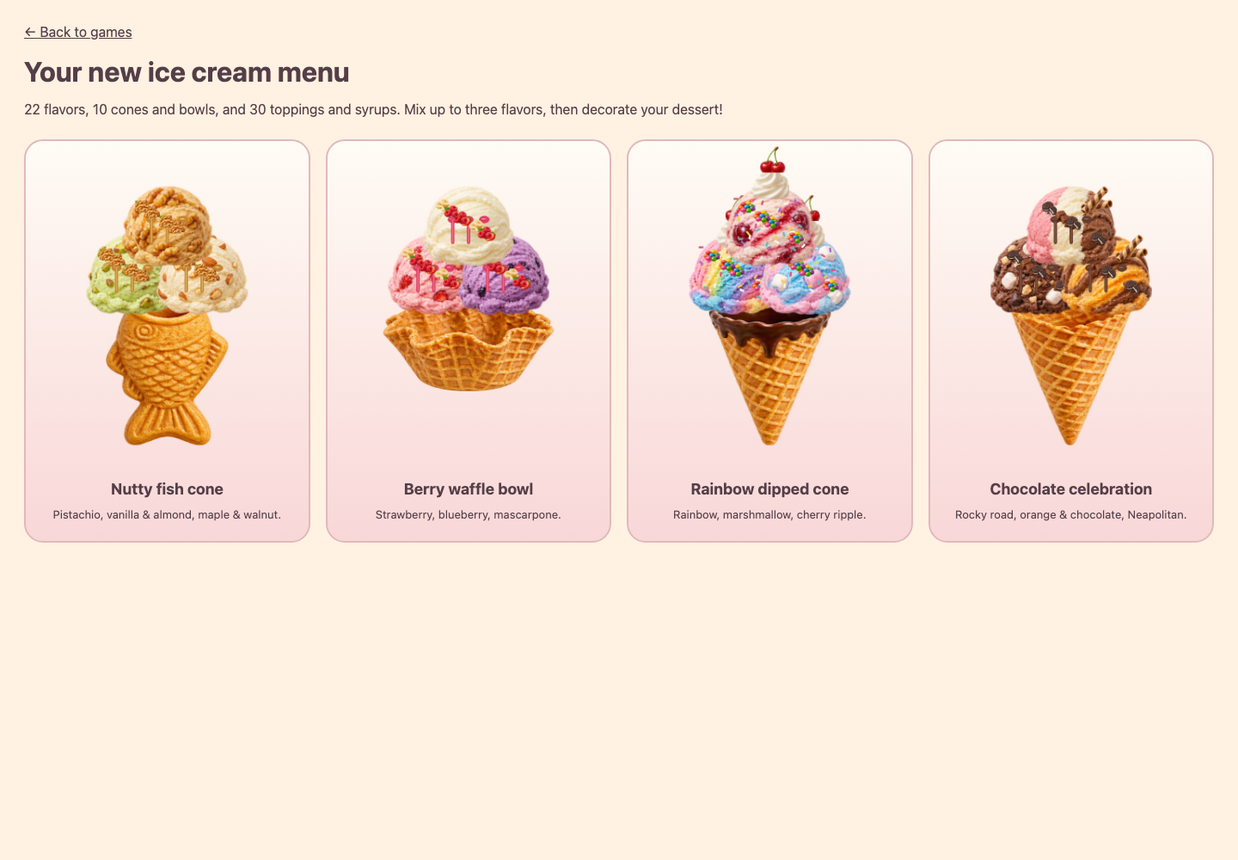
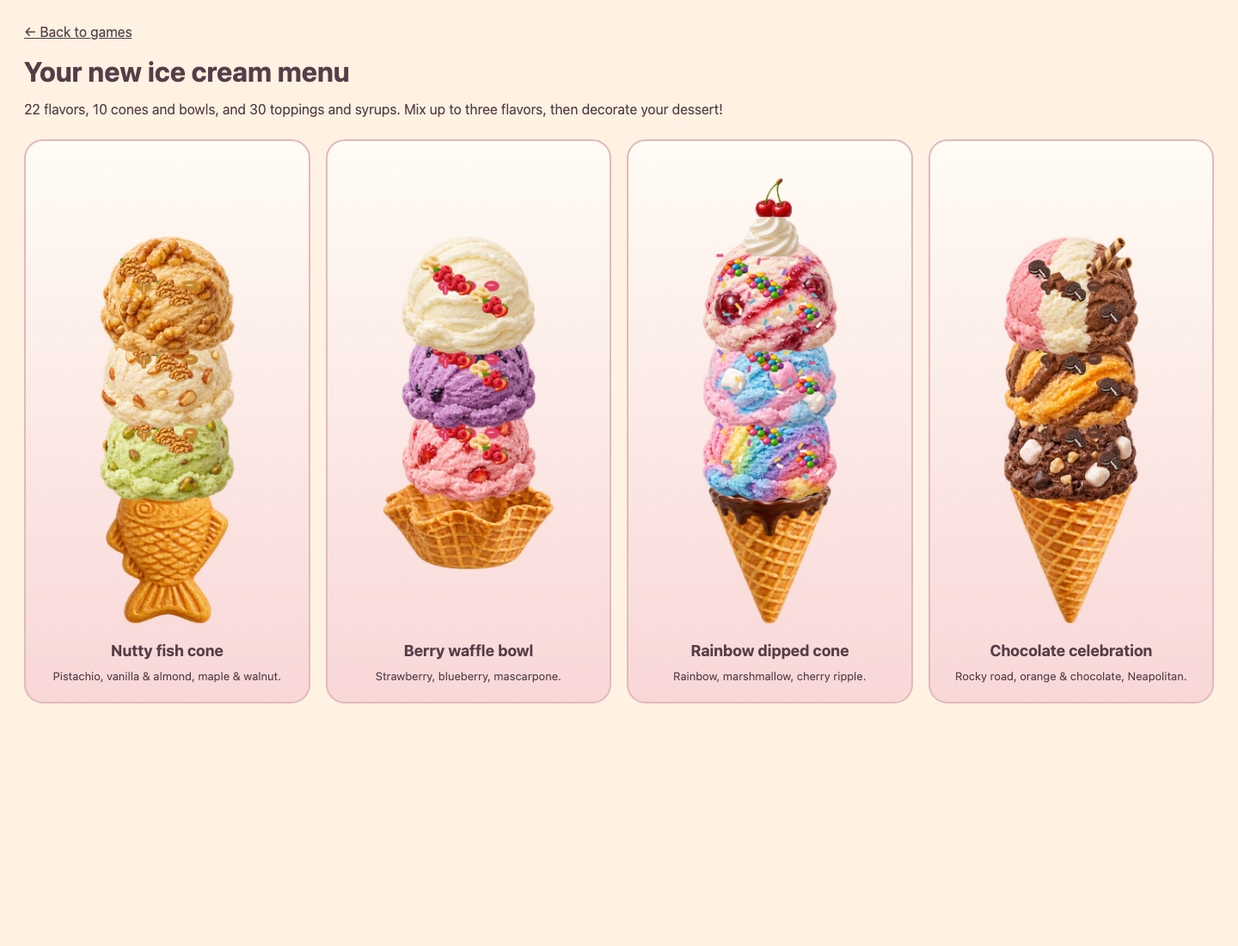
Allow empty flavor selections and stack full-size scoops vertically

diff --git a/src/ice-cream.js b/src/ice-cream.js
@@ -11,9 +11,10 @@ const hasSyrup=r=>r.toppings.some(isIceSyrup);
 const syrupColor=p=>(ICE_SYRUPS[syrupKind(p)]||ICE_SYRUPS.sauce).color;
 const syrupShine=p=>(ICE_SYRUPS[syrupKind(p)]||ICE_SYRUPS.sauce).shine;
 export function createIceRecipe(){return {drink:'icecream',funny:false,cone:'waffle',flavor:'vanilla',flavors:['vanilla'],toppings:[],sauceDrops:[]};}
-export function iceRecipeFlavors(recipe){const values=Array.isArray(recipe.flavors)?recipe.flavors:[recipe.flavor];const valid=[...new Set(values.filter(id=>Object.hasOwn(ICE_FLAVORS,id)))].slice(0,3);return valid.length?valid:[Object.hasOwn(ICE_FLAVORS,recipe.flavor)?recipe.flavor:'vanilla'];}
-export function chooseIceFlavor(recipe,id,replace=false){if(!Object.hasOwn(ICE_FLAVORS,id))return false;let flavors=iceRecipeFlavors(recipe);if(replace)flavors=[id];else if(flavors.includes(id)){if(flavors.length===1)return false;flavors=flavors.filter(value=>value!==id);}else{if(flavors.length>=3)return false;flavors.push(id);}recipe.flavors=flavors;recipe.flavor=flavors[0];return true;}
-export function iceScoopLayout(recipe){const ids=iceRecipeFlavors(recipe),positions=ids.length===1?[[0,0,1]]:ids.length===2?[[-36,-5,.72],[36,-5,.72]]:[[-36,0,.68],[36,0,.68],[0,-50,.68]];return ids.map((flavor,i)=>({flavor,x:positions[i][0],y:positions[i][1],scale:positions[i][2]}));}
+export function iceRecipeFlavors(recipe){if(Array.isArray(recipe.flavors))return [...new Set(recipe.flavors.filter(id=>Object.hasOwn(ICE_FLAVORS,id)))].slice(0,3);return [Object.hasOwn(ICE_FLAVORS,recipe.flavor)?recipe.flavor:'vanilla'];}
+export function chooseIceFlavor(recipe,id,replace=false){if(!Object.hasOwn(ICE_FLAVORS,id))return false;let flavors=iceRecipeFlavors(recipe);if(replace)flavors=[id];else if(flavors.includes(id))flavors=flavors.filter(value=>value!==id);else{if(flavors.length>=3)return false;flavors.push(id);}recipe.flavors=flavors;recipe.flavor=flavors[0]??null;if(!flavors.length)for(const key of ['sauceDrops','sauceFalling','saucePuddles'])recipe[key]=[];return true;}
+export function iceScoopLayout(recipe){return iceRecipeFlavors(recipe).map((flavor,i)=>({flavor,x:0,y:-76*i,scale:1}));}
+export function iceDessertBites(recipe){const count=iceRecipeFlavors(recipe).length;if(count<=1)return recipe.cone==='cup'?ICE_CUP_BITES:ICE_BITES;const offset=(count-1)*76;return [{x:24,y:-65-offset,r:88},{x:-24,y:-40-offset*.45,r:90},{x:12,y:recipe.cone==='cup'?-25:30,r:85},{x:0,y:recipe.cone==='cup'?-12:113,r:80}];}
 function drawReferenceIceToppings(c,recipe){
  const scattered={chips:6,pinkSprinkles:10,chocolateSprinkles:10,pearlSprinkles:10,mms:4,truFru:3,banana:3,strawberries:2,chocolatePieces:3,oreo:3,brownie:3,goldfish:4,cookieCrumbs:9,almonds:4,walnuts:4,raspberries:3,orangeSlice:1};
  for(const [id,count]of Object.entries(scattered)){if(!recipe.toppings.includes(id))continue;for(let i=0;i<count;i++){const x=count===1?10:-44+(i*37+id.length*3)%88,y=-65+(i*23+id.length*2)%55,size=count>6?15:count===1?42:25;if(!drawIceIngredient(c,'toppings',id,x-size/2,y-size/2,size,size)){c.fillStyle=['#f48bad','#784537','#f6dd8b','#8ec7df'][i%4];c.beginPath();c.ellipse(x,y,size*.3,size*.22,i,0,Math.PI*2);c.fill();}}}
@@ -152,11 +153,12 @@ export function drawIceDessert(ctx,recipe,x,y,scale=1,bites=0){
   ctx.save();ctx.translate(x,y);ctx.scale(scale,scale);
   // The reusable cup is drawn outside the edible layer's bite mask.
   if(recipe.cone==='cup'){drawIceCup(ctx);if(bites>=4){ctx.restore();return;}}
+  const topOffset=Math.max(0,iceRecipeFlavors(recipe).length-1)*76;
   // Intersect the dessert with the outside of each bite; the remaining portion
   // keeps its original size and position, with visible scalloped bite edges.
-  if(bites>0){ctx.beginPath();ctx.rect(-200,-82,400,282);ctx.clip();}
-  for(const bite of (recipe.cone==='cup'?ICE_CUP_BITES:ICE_BITES).slice(0,bites)){
-    ctx.beginPath();ctx.rect(-200,-200,400,400);
+  if(bites>0){ctx.beginPath();ctx.rect(-200,-200-topOffset,400,400+topOffset);ctx.clip();}
+  for(const bite of iceDessertBites(recipe).slice(0,bites)){
+    ctx.beginPath();ctx.rect(-200,-200-topOffset,400,400+topOffset);
     ctx.moveTo(bite.x+bite.r,bite.y);ctx.arc(bite.x,bite.y,bite.r,0,Math.PI*2);
     ctx.clip('evenodd');
   }
@@ -355,7 +357,7 @@ export function drawIceScene(ctx,recipe,width,height,clipTime=null,reducedMotion
   ctx.fillStyle='#cbe4db';ctx.fillRect(445,124,8,330);
   ctx.fillStyle='#c79575';ctx.fillRect(0,470,900,150);ctx.fillStyle='#eec8a2';ctx.fillRect(0,456,900,24);}
   ctx.textAlign='center';ctx.fillStyle='#533e4a';ctx.font='bold 28px sans-serif';
-  ctx.fillText(clipTime===null?'THE LITTLE DRAGON ICE CREAM PARLOR':'A treat for your dragon!',450,111);
+  ctx.fillText(clipTime===null?'THE LITTLE DRAGON ICE CREAM PARLOR':'A treat for your dragon!',450,!isMilkshake(recipe)&&iceRecipeFlavors(recipe).length===3?74:111);
   if(isMilkshake(recipe)){
     const v=milkshakeBlendView(recipe);
     if(clipTime!==null)drawMilkshakeDrink(ctx,recipe,clipTime,drawIceDragon,reducedMotion);
@@ -364,14 +366,15 @@ export function drawIceScene(ctx,recipe,width,height,clipTime=null,reducedMotion
     ctx.restore();return;
   }
   if(clipTime===null){
-    iceOval(ctx,450,493,145,20,'#a67c6244');
-    ctx.save();ctx.translate(450,307);ctx.scale(1.15,1.15);drawChocolateSpill(ctx,recipe);ctx.restore();
-    drawIceDessert(ctx,recipe,450,307,1.15);
-    ctx.font='20px sans-serif';ctx.fillStyle='#fff6e8';ctx.fillText(iceRecipeFlavors(recipe).map(id=>ICE_FLAVORS[id].name).join(' + ')+' · '+ICE_CONES[recipe.cone],450,566,820);
+    const flavors=iceRecipeFlavors(recipe),dessertY=307+Math.max(0,flavors.length-1)*54;
+    iceOval(ctx,450,dessertY+186,145,20,'#a67c6244');
+    ctx.save();ctx.translate(450,dessertY);ctx.scale(1.15,1.15);drawChocolateSpill(ctx,recipe);ctx.restore();
+    drawIceDessert(ctx,recipe,450,dessertY,1.15);
+    ctx.font='20px sans-serif';ctx.fillStyle='#fff6e8';ctx.fillText((flavors.length?flavors.map(id=>ICE_FLAVORS[id].name).join(' + '):'Empty cone')+' · '+ICE_CONES[recipe.cone],450,flavors.length===3?610:566,820);
   }else{
     const t=clipTime,cleanup=iceCleanup(recipe,t);
     const arrive=iceClamp(t/1.4,0,1),bites=iceBiteCount(t);
-    const biteTargets=recipe.cone==='cup'?ICE_CUP_BITES:ICE_BITES;
+    const biteTargets=iceDessertBites(recipe),dessertY=314+Math.max(0,iceRecipeFlavors(recipe).length-1)*53;
     const biteIndex=Math.min(3,Math.max(0,Math.floor((t-1.5)/.95)));
     const phase=iceClamp((t-1.5-biteIndex*.95)/.95,0,1),target=biteTargets[biteIndex];
     const lunge=t>=1.5&&t<5.35?(reducedMotion ? .65 :Math.sin(phase*Math.PI)):0;
@@ -379,7 +382,7 @@ export function drawIceScene(ctx,recipe,width,height,clipTime=null,reducedMotion
     ctx.save();ctx.translate(450,307);ctx.scale(1.15,1.15);drawChocolateSpill(ctx,{...recipe,saucePuddles:cleanup.puddles},false);ctx.restore();
     const lickX=450+cleanup.x*1.15;
     const dragonX=cleanup.licking?lickX+54:900-arrive*330;
-    drawIceDragon(ctx,dragonX,277,reducedMotion?0:t,cleanup.licking?.45:mouth,cleanup.licking?0:(420+target.x-516)*lunge,cleanup.licking?110:(314+target.y-333)*lunge);
+    drawIceDragon(ctx,dragonX,277,reducedMotion?0:t,cleanup.licking?.45:mouth,cleanup.licking?0:(420+target.x-516)*lunge,cleanup.licking?110:(dessertY+target.y-333)*lunge);
     if(cleanup.licking){
       const reach=reducedMotion?1:.65+.35*Math.sin((t-5.5)*Math.PI*8)**2;
       ctx.strokeStyle='#eb9baf';ctx.lineWidth=13;ctx.lineCap='round';ctx.beginPath();ctx.moveTo(lickX,450);
@@ -388,11 +391,11 @@ export function drawIceScene(ctx,recipe,width,height,clipTime=null,reducedMotion
     }
     if(bites<4||recipe.cone==='cup'){
       const setDown=recipe.cone==='cup'&&bites===4?79*iceClamp((t-4.95)/.55,0,1):0;
-      drawIceDessert(ctx,recipe,420,314+setDown,1,bites);
+      drawIceDessert(ctx,recipe,420,dessertY+setDown,1,bites);
     }
     if(!reducedMotion&&bites>0&&t<5.5){
       const bite=biteTargets[bites-1],elapsed=t-(2.1+(bites-1)*.95);
-      if(elapsed<.35)for(let i=0;i<5;i++)iceOval(ctx,420+bite.x+(i-2)*9,314+bite.y+elapsed*95+i*4,3,3,ICE_FLAVORS[recipe.flavor].color);
+      if(elapsed<.35)for(let i=0;i<5;i++)iceOval(ctx,420+bite.x+(i-2)*9,dessertY+bite.y+elapsed*95+i*4,3,3,ICE_FLAVORS[recipe.flavor]?.color||'#dfba80');
     }
     if(t>=cleanup.thanks){
       ctx.fillStyle='#fff8e8';ctx.beginPath();ctx.roundRect(200,167,280,95,22);ctx.fill();
@@ -483,7 +486,7 @@ export function createIceCream({canvas,onHud,onFinish,controls=document.querySel
           activeTopping=id;renderControls();return;
         }
         if(step===2)activeTopping=id;
-        if(step===0){recipe.drink='icecream';delete recipe.blend;recipe.cone=id;}else if(step===1){if(!chooseIceFlavor(recipe,id,!flavorTouched)){heading.textContent=iceRecipeFlavors(recipe).length===3?'Choose up to 3 flavors — remove one to try another.':'Keep at least one flavor selected.';return;}flavorTouched=true;resetMilkshakeBlend(recipe);}
+        if(step===0){recipe.drink='icecream';delete recipe.blend;recipe.cone=id;}else if(step===1){if(!chooseIceFlavor(recipe,id,!flavorTouched&&!iceRecipeFlavors(recipe).includes(id))){heading.textContent='Choose up to 3 flavors — remove one to try another.';return;}flavorTouched=true;resetMilkshakeBlend(recipe);}
         else if(isMilkshake(recipe)){if(!chooseMilkshakeTopping(recipe,id)){heading.textContent='Choose up to 3 toppings — remove one to try another.';return;}}
         else recipe.toppings=recipe.toppings.includes(id)?recipe.toppings.filter(item=>item!==id):[...recipe.toppings,id];
         if(!isMilkshake(recipe)&&step===2&&isIceSyrup(id)){
@@ -496,13 +499,13 @@ export function createIceCream({canvas,onHud,onFinish,controls=document.querySel
       choices.append(button);
     }
     if(step===0){const button=document.createElement('button');button.type='button';button.className='button outline milkshake-choice';button.setAttribute?.('data-milkshake-choice','');button.setAttribute?.('aria-pressed',String(shake));button.disabled=locked;const picture=document.createElement('canvas'),caption=document.createElement('span');picture.width=140;picture.height=110;picture.setAttribute?.('aria-hidden','true');caption.textContent='Make a milkshake';button.append(picture,caption);ingredientPreviews.push({picture,kind:'drink',id:'milkshake',ready:null});button.onclick=()=>{if(!active||paused||clip!==null||isMixing())return;selectMilkshake(recipe);activeTopping=null;renderControls();};choices.append(button);}
-    back.disabled=locked||step===0;next.disabled=locked;
+    back.disabled=locked||step===0;next.disabled=locked||(step>=1&&!iceRecipeFlavors(recipe).length);
     next.textContent=step===2?(shake?(blend.phase==='ready'?'Feed dragon':mixing?'Blending…':'Send to blender'):'Done — feed the dragon!'):'Next: '+steps[step+1]+' →';
     onHud({text:clip!==null?'Watch your dragon enjoy the treat!':steps[step]+' · '+recipe.toppings.length+' toppings · More ingredients in the Appearance shop'});
   }
   back.onclick=()=>{if(active&&!paused&&clip===null&&!isMixing()&&step>0){step--;renderControls();heading.focus({preventScroll:true});}};
   next.onclick=()=>{
-    if(!active||paused||clip!==null||isMixing())return;
+    if(!active||paused||clip!==null||isMixing()||(step>=1&&!iceRecipeFlavors(recipe).length))return;
     if(step<2)step++;else if(isMilkshake(recipe)){if(recipe.blend?.phase==='ready'){clip=0;spoken=false;audio.stop();}else{startMilkshakeBlend(recipe);activeTopping=null;canvas.scrollIntoView?.({block:'center',behavior:reduced?'auto':'smooth'});}}else{
       // Finish any airborne drops before the dragon begins its cleanup.
       for(const drop of recipe.sauceFalling||[]){

diff --git a/tests/ice-cream.test.js b/tests/ice-cream.test.js
@@ -38,7 +38,7 @@ test('ice cream buttons preserve choices, toggle toppings, pause the ending, fin
     assert.equal(next.disabled,true);engine.start();
     assert.equal(choices.children[4].disabled,true);choices.children[4].onclick();assert.equal(choices.children[4].attributes['aria-pressed'],'false');
     choices.children[2].onclick();assert.equal(choices.children[2].attributes['aria-pressed'],'true');
-    next.onclick();choices.children[3].onclick();next.onclick();
+    next.onclick();choices.children[0].onclick();assert.equal(next.disabled,true);assert.ok(choices.children.every(b=>b.attributes['aria-pressed']==='false'));choices.children[1].onclick();choices.children[2].onclick();choices.children[1].onclick();choices.children[2].onclick();assert.ok(choices.children.every(b=>b.attributes['aria-pressed']==='false'));assert.equal(next.disabled,true);choices.children[3].onclick();assert.equal(next.disabled,false);next.onclick();
     choices.children[0].onclick();choices.children[4].onclick();choices.children[0].onclick();
     assert.equal(choices.children[0].attributes['aria-pressed'],'false');assert.equal(choices.children[4].attributes['aria-pressed'],'true');
     choices.children[2].onclick(); // Bring out the chocolate bottle.
@@ -242,7 +242,7 @@ test('dragon bites leave the cup intact and the empty cup remains after eating',
 });
 
 test('reference flavors combine into one to three distinct scoops without silently adding a fourth',async()=>{
- const {chooseIceFlavor,iceRecipeFlavors,iceScoopLayout}=await import('../src/ice-cream.js');const r=createIceRecipe();assert.equal(chooseIceFlavor(r,'pistachio',true),true);assert.equal(chooseIceFlavor(r,'rockyroad'),true);assert.equal(chooseIceFlavor(r,'neapolitan'),true);assert.deepEqual(iceRecipeFlavors(r),['pistachio','rockyroad','neapolitan']);const before=JSON.stringify(r);assert.equal(chooseIceFlavor(r,'orange'),false);assert.equal(JSON.stringify(r),before);assert.equal(iceScoopLayout(r).length,3);assert.equal(new Set(iceScoopLayout(r).map(s=>s.x+','+s.y)).size,3);assert.equal(chooseIceFlavor(r,'rockyroad'),true);assert.equal(chooseIceFlavor(r,'neapolitan'),true);assert.equal(chooseIceFlavor(r,'pistachio'),false);assert.equal(r.flavor,'pistachio');assert.deepEqual(iceRecipeFlavors({flavor:'vanillaalmond'}),['vanillaalmond']);assert.equal(chooseIceFlavor(r,'unknown'),false);
+ const {chooseIceFlavor,iceRecipeFlavors,iceScoopLayout}=await import('../src/ice-cream.js');const r=createIceRecipe();assert.equal(chooseIceFlavor(r,'pistachio',true),true);assert.equal(chooseIceFlavor(r,'rockyroad'),true);assert.equal(chooseIceFlavor(r,'neapolitan'),true);assert.deepEqual(iceRecipeFlavors(r),['pistachio','rockyroad','neapolitan']);const before=JSON.stringify(r);assert.equal(chooseIceFlavor(r,'orange'),false);assert.equal(JSON.stringify(r),before);assert.equal(iceScoopLayout(r).length,3);assert.equal(new Set(iceScoopLayout(r).map(s=>s.x+','+s.y)).size,3);assert.equal(chooseIceFlavor(r,'rockyroad'),true);assert.equal(chooseIceFlavor(r,'neapolitan'),true);assert.equal(chooseIceFlavor(r,'pistachio'),true);assert.equal(r.flavor,null);assert.deepEqual(iceRecipeFlavors(r),[]);assert.equal(chooseIceFlavor(r,'orange'),true);assert.deepEqual(iceRecipeFlavors(r),['orange']);assert.deepEqual(iceRecipeFlavors({flavor:'vanillaalmond'}),['vanillaalmond']);assert.equal(chooseIceFlavor(r,'unknown'),false);
 });
 test('all five syrup colors pour, settle and participate in dragon cleanup',async()=>{
  const {ICE_SYRUPS}=await import('../src/ice-settings.js');assert.equal(Object.keys(ICE_SYRUPS).length,5);const r=createIceRecipe();r.toppings=Object.keys(ICE_SYRUPS);for(const id of r.toppings){pourIceChocolate(r,-20,-40,.5,id);pourIceChocolate(r,130,-20,.3,id);}for(let i=0;i<60;i++)tickIceChocolate(r,.1);assert.deepEqual(new Set(r.sauceDrops.map(p=>p.kind)),new Set(Object.keys(ICE_SYRUPS)));assert.deepEqual(new Set(r.saucePuddles.map(p=>p.kind)),new Set(Object.keys(ICE_SYRUPS)));assert.equal(iceCleanup(r,9).puddles.length,0);assert.equal(iceCleanup(r,6).licking,true);
@@ -251,5 +251,7 @@ test('every pictured ingredient has a valid static illustration used by the choo
  const {ICE_ART}=await import('../src/ice-art-bounds.js'),{drawIceIngredient}=await import('../src/ice-art.js'),{statSync}=await import('node:fs');assert.equal(Object.keys(ICE_FLAVORS).length,22);assert.equal(Object.keys(ICE_CONES).length,10);assert.equal(Object.keys(ICE_TOPPINGS).length,30);
  const old=globalThis.Image;t.after(()=>globalThis.Image=old);globalThis.Image=class{complete=true;set src(v){this.url=v;const kind=v.match(/ice-ingredients\/(.+)\.png/)[1];this.naturalWidth=ICE_ART[kind].width;this.naturalHeight=ICE_ART[kind].height;}get src(){return this.url;}};const draws=[],c=new Proxy({drawImage:(...a)=>draws.push(a)},{get:(o,k)=>o[k]||(()=>{}),set:(o,k,v)=>(o[k]=v,true)});
  for(const [kind,options]of [['flavors',ICE_FLAVORS],['cones',ICE_CONES],['toppings',ICE_TOPPINGS]]){const data=ICE_ART[kind];assert.deepEqual(data.ids,Object.keys(options));assert.equal(data.ids.length,data.bounds.length);assert.ok(statSync(new URL('../assets/ice-ingredients/'+kind+'.png',import.meta.url)).size>1000);for(const [i,id]of data.ids.entries()){const b=data.bounds[i];assert.ok(b.w>0&&b.h>0&&b.x>=0&&b.y>=0&&b.x+b.w<=data.width&&b.y+b.h<=data.height);assert.equal(drawIceIngredient(c,kind,id,0,0,120,100),true);const call=draws.at(-1);assert.ok(call[7]<=120+1e-8&&call[8]<=100+1e-8);}}
- const r={...createIceRecipe(),cone:'fish',flavor:'pistachio',flavors:['pistachio','orangechocolate','maplewalnut'],toppings:['mms','banana','waferRolls','cream']};draws.length=0;drawIceDessert(c,r,100,200);assert.ok(draws.filter(a=>a[0].src.endsWith('/flavors.png')).length===3);assert.ok(draws.some(a=>a[0].src.endsWith('/cones.png')));assert.ok(draws.some(a=>a[0].src.endsWith('/toppings.png')));
+ const r={...createIceRecipe(),cone:'fish',flavor:'pistachio',flavors:['pistachio','orangechocolate','maplewalnut'],toppings:['mms','banana','waferRolls','cream']};draws.length=0;drawIceDessert(c,r,100,200);assert.ok(draws.filter(a=>a[0].src.endsWith('/flavors.png')).length===3);assert.ok(draws.some(a=>a[0].src.endsWith('/cones.png')));assert.ok(draws.some(a=>a[0].src.endsWith('/toppings.png')));for(const scoop of draws.filter(a=>a[0].src.endsWith('/flavors.png'))){assert.equal(scoop[7],138);assert.equal(scoop[8],122);}r.flavors=[];r.flavor=null;draws.length=0;drawIceDessert(c,r,100,200);assert.ok(draws.some(a=>a[0].src.endsWith('/cones.png')));assert.ok(!draws.some(a=>a[0].src.endsWith('/flavors.png')));
 });
+
+test('every selected scoop is full size and centered above the previous scoop',async()=>{const {iceScoopLayout,iceRecipeFlavors}=await import('../src/ice-cream.js');for(let count=0;count<=3;count++){const flavors=['vanilla','chocolate','strawberry'].slice(0,count),r={flavor:'vanilla',flavors},layout=iceScoopLayout(r);assert.deepEqual(iceRecipeFlavors(r),flavors);assert.equal(layout.length,count);for(let i=0;i<count;i++){assert.equal(layout[i].x,0);assert.equal(layout[i].scale,1);if(i)assert.ok(layout[i].y<layout[i-1].y);}}});

diff --git a/tests/milkshake.test.js b/tests/milkshake.test.js
@@ -4,7 +4,7 @@ import {createIceRecipe,createIceCream,drawIceScene,iceCleanup,iceEndingSounds} 
 import {selectMilkshake,chooseMilkshakeTopping,startMilkshakeBlend,tickMilkshakeBlend,milkshakeBlendView,milkshakeDrinkView,milkshakeEndingSounds,milkshakeColor,drawMilkshakeGlass,drawMilkshakeBlender,milkshakeMouthPoint} from '../src/milkshake.js';
 const shake=()=>selectMilkshake({...createIceRecipe(),flavor:'strawberry',flavors:['strawberry'],toppings:['oreo','banana','cream']});
 const context=()=>new Proxy({createLinearGradient:()=>({addColorStop(){}})},{get:(o,k)=>o[k]||(()=>{}),set:(o,k,v)=>(o[k]=v,true)});
-test('milkshakes accept at most three toppings, remove selections, and clear old syrup spills',()=>{const r=shake();r.saucePuddles=[{x:140,volume:3}];selectMilkshake(r);assert.equal(r.toppings.length,3);assert.deepEqual(r.saucePuddles,[]);const before=JSON.stringify(r);assert.equal(chooseMilkshakeTopping(r,'cherry'),false);assert.equal(JSON.stringify(r),before);assert.equal(chooseMilkshakeTopping(r,'oreo'),true);assert.equal(chooseMilkshakeTopping(r,'cherry'),true);assert.equal(chooseMilkshakeTopping(r,'missing'),false);startMilkshakeBlend(r);assert.equal(chooseMilkshakeTopping(r,'cherry'),false);assert.equal(startMilkshakeBlend(r),false);});
+test('milkshakes accept at most three toppings, remove selections, and clear old syrup spills',()=>{const r=shake();r.saucePuddles=[{x:140,volume:3}];selectMilkshake(r);assert.equal(r.toppings.length,3);assert.deepEqual(r.saucePuddles,[]);const before=JSON.stringify(r);assert.equal(chooseMilkshakeTopping(r,'cherry'),false);assert.equal(JSON.stringify(r),before);assert.equal(chooseMilkshakeTopping(r,'oreo'),true);assert.equal(chooseMilkshakeTopping(r,'cherry'),true);assert.equal(chooseMilkshakeTopping(r,'missing'),false);startMilkshakeBlend(r);assert.equal(chooseMilkshakeTopping(r,'cherry'),false);assert.equal(startMilkshakeBlend(r),false);const empty=shake();empty.flavors=[];assert.equal(startMilkshakeBlend(empty),false);});
 test('the blender counts 3 2 1 before five seconds of mixing, then sparkles with no recipe loss',()=>{const r=shake(),ingredients=JSON.stringify([r.flavors,r.toppings]);assert.equal(startMilkshakeBlend(r),true);assert.equal(milkshakeBlendView(r).count,3);tickMilkshakeBlend(r,1);assert.equal(milkshakeBlendView(r).count,2);tickMilkshakeBlend(r,1);assert.equal(milkshakeBlendView(r).count,1);tickMilkshakeBlend(r,1);assert.equal(r.blend.phase,'blending');assert.equal(milkshakeBlendView(r).progress,0);tickMilkshakeBlend(r,2.5);assert.equal(milkshakeBlendView(r).progress,.5);tickMilkshakeBlend(r,2.5);assert.equal(r.blend.phase,'ready');assert.equal(milkshakeBlendView(r).sparkle,1);assert.equal(JSON.stringify([r.flavors,r.toppings]),ingredients);const t=r.blend.time;for(const dt of [NaN,-1,0,Infinity])tickMilkshakeBlend(r,dt);assert.equal(r.blend.time,t);tickMilkshakeBlend(r,3);assert.equal(milkshakeBlendView(r).sparkle,0);});
 test('milkshake color reflects both ice cream and selected mix-ins and the drink empties without bites',()=>{const r=shake(),color=milkshakeColor(r);assert.match(color,/^#[0-9a-f]{6}$/);r.flavors=['chocolate'];assert.notEqual(milkshakeColor(r),color);r.flavors=['strawberry'];r.toppings=[];assert.notEqual(milkshakeColor(r),color);assert.equal(milkshakeDrinkView(1).consumed,0);assert.ok(milkshakeDrinkView(3).consumed>0&&milkshakeDrinkView(3).consumed<1);assert.equal(milkshakeDrinkView(6).consumed,1);assert.equal(milkshakeDrinkView(6.7).thanks,true);assert.equal(milkshakeDrinkView(8.5).finished,true);assert.equal(iceCleanup(r,8).end,8.5);assert.equal(iceCleanup(r,8).licking,false);});
 test('Normal drinks quietly, Funny makes slurps and a gulp, and neither chews the glass',()=>{const r=shake();r.funny=false;assert.deepEqual(iceEndingSounds(r,0,9),[]);r.funny=true;const all=milkshakeEndingSounds(r,0,9);assert.equal(all.filter(c=>c==='iceSlurp').length,6);assert.equal(all.filter(c=>c==='gulp').length,1);assert.ok(!all.includes('iceChew'));const frames=[];for(let i=0;i<90;i++)frames.push(...milkshakeEndingSounds(r,i/10,(i+1)/10));assert.deepEqual(frames,all);});

diff --git a/src/milkshake.js b/src/milkshake.js
@@ -7,7 +7,7 @@ export const isMilkshake=r=>r.drink==='milkshake';
 export function selectMilkshake(r){r.drink='milkshake';r.toppings=r.toppings.slice(0,3);r.blend={phase:'choosing',time:0};for(const key of ['sauceDrops','sauceFalling','saucePuddles'])r[key]=[];return r;}
 export function resetMilkshakeBlend(r){if(isMilkshake(r))r.blend={phase:'choosing',time:0};}
 export function chooseMilkshakeTopping(r,id){if(!isMilkshake(r)||!Object.hasOwn(ICE_TOPPINGS,id)||['countdown','blending'].includes(r.blend?.phase))return false;const exists=r.toppings.includes(id);if(!exists&&r.toppings.length>=3)return false;r.toppings=exists?r.toppings.filter(t=>t!==id):[...r.toppings,id];resetMilkshakeBlend(r);return true;}
-export function startMilkshakeBlend(r){if(!isMilkshake(r)||r.toppings.length>3||['countdown','blending'].includes(r.blend?.phase))return false;r.blend={phase:'countdown',time:0};return true;}
+export function startMilkshakeBlend(r){if(!isMilkshake(r)||!(Array.isArray(r.flavors)?r.flavors.some(id=>ICE_FLAVORS[id]):ICE_FLAVORS[r.flavor])||r.toppings.length>3||['countdown','blending'].includes(r.blend?.phase))return false;r.blend={phase:'countdown',time:0};return true;}
 export function tickMilkshakeBlend(r,seconds){if(!isMilkshake(r)||!r.blend||r.blend.phase==='choosing'||!Number.isFinite(seconds)||seconds<=0)return;r.blend.time+=seconds;r.blend.phase=r.blend.time<3?'countdown':r.blend.time<8?'blending':'ready';}
 export function milkshakeBlendView(r){const phase=r.blend?.phase||'choosing',time=r.blend?.time||0;return {phase,time,count:phase==='countdown'?Math.max(1,3-Math.floor(time)):0,progress:phase==='ready'?1:clamp((time-3)/5),sparkle:phase==='ready'?clamp(1-(time-8)/3):0};}
 export function milkshakeDrinkView(time){return {arrive:clamp(time/1.4),drinking:time>=1.5&&time<6,consumed:clamp((time-1.5)/4.5),thanks:time>=MILKSHAKE_THANKS,finished:time>=MILKSHAKE_DRINK_SECONDS};}
@@ -34,7 +34,7 @@ export function drawMilkshakeGlass(c,r,x,y,{scale=1,remaining=1,time=0,reduced=f
  oval(c,0,1,69,11,'#71596b22');c.save();liquidPath(c);c.clip();c.fillStyle=gradient(c,-60,-220,60,-20,[[0,'#e3f4f534'],[.45,'#ffffff18'],[1,'#a1c1d44d']]);c.fillRect(-65,-250,130,235);
  if(remaining>0){
   if(blended){c.fillStyle=gradient(c,-55,top,55,-26,[[0,'#fff3e2'],[.22,milkshakeColor(r)],[.8,milkshakeColor(r)],[1,'#a37a7166']]);c.fillRect(-65,top,130,-22-top);bits(c,r,{top:top+8,bottom:-28});for(const id of r.toppings.filter(id=>ICE_SYRUPS[id])){c.strokeStyle=ICE_SYRUPS[id].color+'8c';c.lineWidth=5;c.beginPath();c.moveTo(-43,top+3);c.bezierCurveTo(47,top+26,-48,top+57,41,Math.min(-28,top+95));c.stroke();}}
-  else{c.fillStyle=milkshakeColor(r);c.fillRect(-65,-115,130,94);const ids=r.flavors?.length?r.flavors:[r.flavor];ids.forEach((id,i)=>{const sy=-150-i*43;if(!drawIceIngredient(c,'flavors',id,-49,sy,98,85,{stretch:true}))oval(c,0,sy+42,49,40,ICE_FLAVORS[id]?.color||'#ffe5c0');});bits(c,r,{top:-228,bottom:-54,progress:0});}
+  else{const ids=(Array.isArray(r.flavors)?r.flavors:[r.flavor]).filter(id=>ICE_FLAVORS[id]);if(ids.length){c.fillStyle=milkshakeColor(r);c.fillRect(-65,-115,130,94);}ids.forEach((id,i)=>{const sy=-150-i*43;if(!drawIceIngredient(c,'flavors',id,-49,sy,98,85,{stretch:true}))oval(c,0,sy+42,49,40,ICE_FLAVORS[id]?.color||'#ffe5c0');});if(ids.length)bits(c,r,{top:-228,bottom:-54,progress:0});}
  }
  c.restore();
  c.fillStyle=gradient(c,-67,-200,67,-200,[[0,'#f3ffffa6'],[.12,'#b5cede36'],[.45,'#ffffff00'],[.85,'#c9e3ef22'],[1,'#faffffc2']]);shape(c,[[-65,-250],[65,-250],[48,-16],[35,-8],[-35,-8],[-48,-16]]);c.fill();c.strokeStyle='#9eb4c5';c.lineWidth=2;c.stroke();

diff --git a/previews/ice-cream-menu.html b/previews/ice-cream-menu.html
@@ -2,6 +2,6 @@
 import {createIceRecipe,drawIceDessert,pourIceChocolate,tickIceChocolate} from '../src/ice-cream.js';import {iceArtAtlas} from '../src/ice-art.js';
 await Promise.all(['flavors','cones','toppings'].map(kind=>{const im=iceArtAtlas(kind);return im.complete?Promise.resolve():new Promise(r=>{im.onload=r;im.onerror=r;});}));
 const samples=[['Nutty fish cone','Pistachio, vanilla & almond, maple & walnut.',['pistachio','vanillaalmond','maplewalnut'],'fish',['almonds','walnuts','caramel']],['Berry waffle bowl','Strawberry, blueberry, mascarpone.',['strawberry','blueberry','mascarpone'],'bowl',['raspberries','banana','strawberries','strawberrySyrup']],['Rainbow dipped cone','Rainbow, marshmallow, cherry ripple.',['rainbow','marshmallow','cherry'],'dipped',['sprinkles','mms','cream','cherry']],['Chocolate celebration','Rocky road, orange & chocolate, Neapolitan.',['rockyroad','orangechocolate','neapolitan'],'waffle',['oreo','chocolatePieces','waferRolls','sauce']]];
-const cards=[];for(const [title,detail,flavors,cone,toppings]of samples){const article=document.createElement('article'),canvas=document.createElement('canvas'),h=document.createElement('h2'),p=document.createElement('p');canvas.width=350;canvas.height=420;h.textContent=title;p.textContent=detail;article.append(canvas,h,p);document.querySelector('main').append(article);const recipe={...createIceRecipe(),cone,flavor:flavors[0],flavors,toppings};for(const id of ['caramel','sauce','strawberrySyrup'])if(toppings.includes(id))for(const x of [-25,0,25])pourIceChocolate(recipe,x,-40,.5,id);cards.push({c:canvas.getContext('2d'),recipe});}
-const reduced=matchMedia('(prefers-reduced-motion:reduce)').matches;let previous=0;function paint(now){const dt=previous?Math.min(.1,(now-previous)/1000):0;previous=now;for(const {c,recipe}of cards){tickIceChocolate(recipe,dt);c.clearRect(0,0,350,420);drawIceDessert(c,recipe,175,190,1.2);}if(!reduced)requestAnimationFrame(paint);}paint(0);
+const cards=[];for(const [title,detail,flavors,cone,toppings]of samples){const article=document.createElement('article'),canvas=document.createElement('canvas'),h=document.createElement('h2'),p=document.createElement('p');canvas.width=350;canvas.height=620;h.textContent=title;p.textContent=detail;article.append(canvas,h,p);document.querySelector('main').append(article);const recipe={...createIceRecipe(),cone,flavor:flavors[0],flavors,toppings};for(const id of ['caramel','sauce','strawberrySyrup'])if(toppings.includes(id))for(const x of [-25,0,25])pourIceChocolate(recipe,x,-40,.5,id);cards.push({c:canvas.getContext('2d'),recipe});}
+const reduced=matchMedia('(prefers-reduced-motion:reduce)').matches;let previous=0;function paint(now){const dt=previous?Math.min(.1,(now-previous)/1000):0;previous=now;for(const {c,recipe}of cards){tickIceChocolate(recipe,dt);c.clearRect(0,0,350,620);drawIceDessert(c,recipe,175,410,1.2);}if(!reduced)requestAnimationFrame(paint);}paint(0);
 </script></html>
